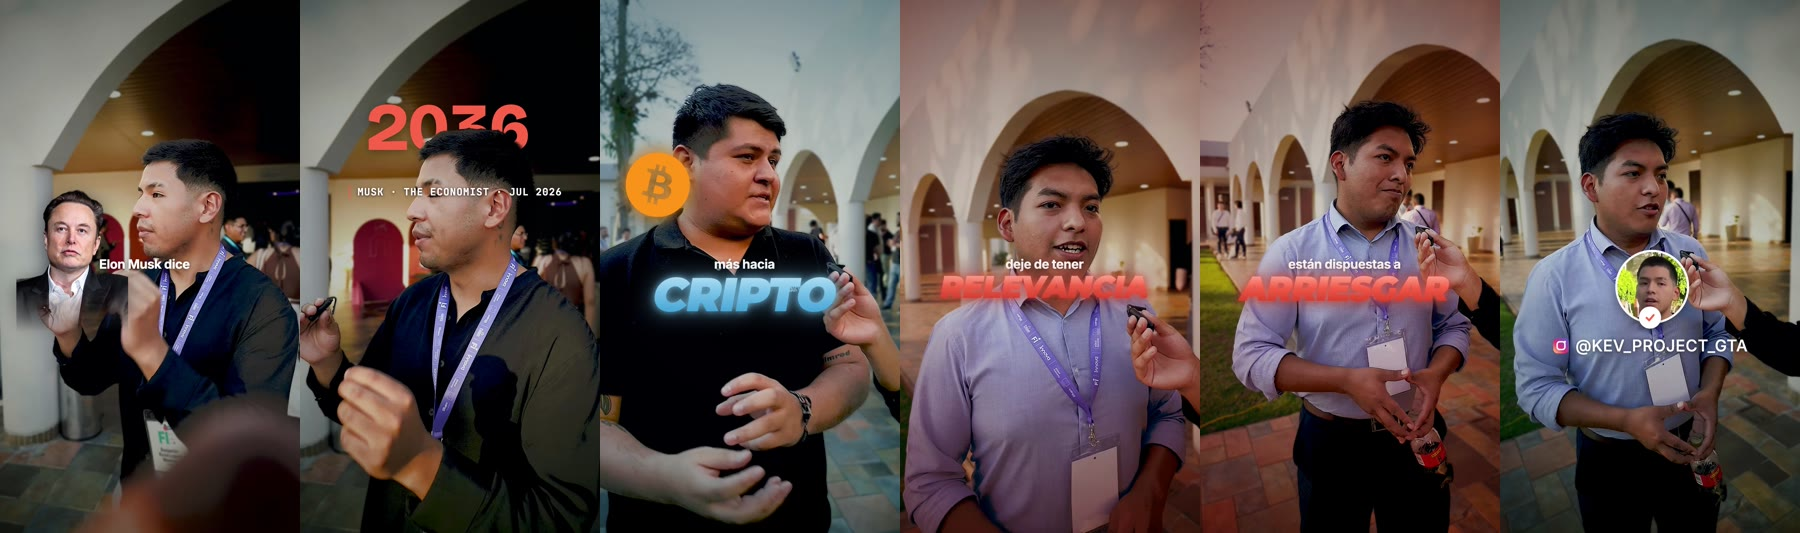
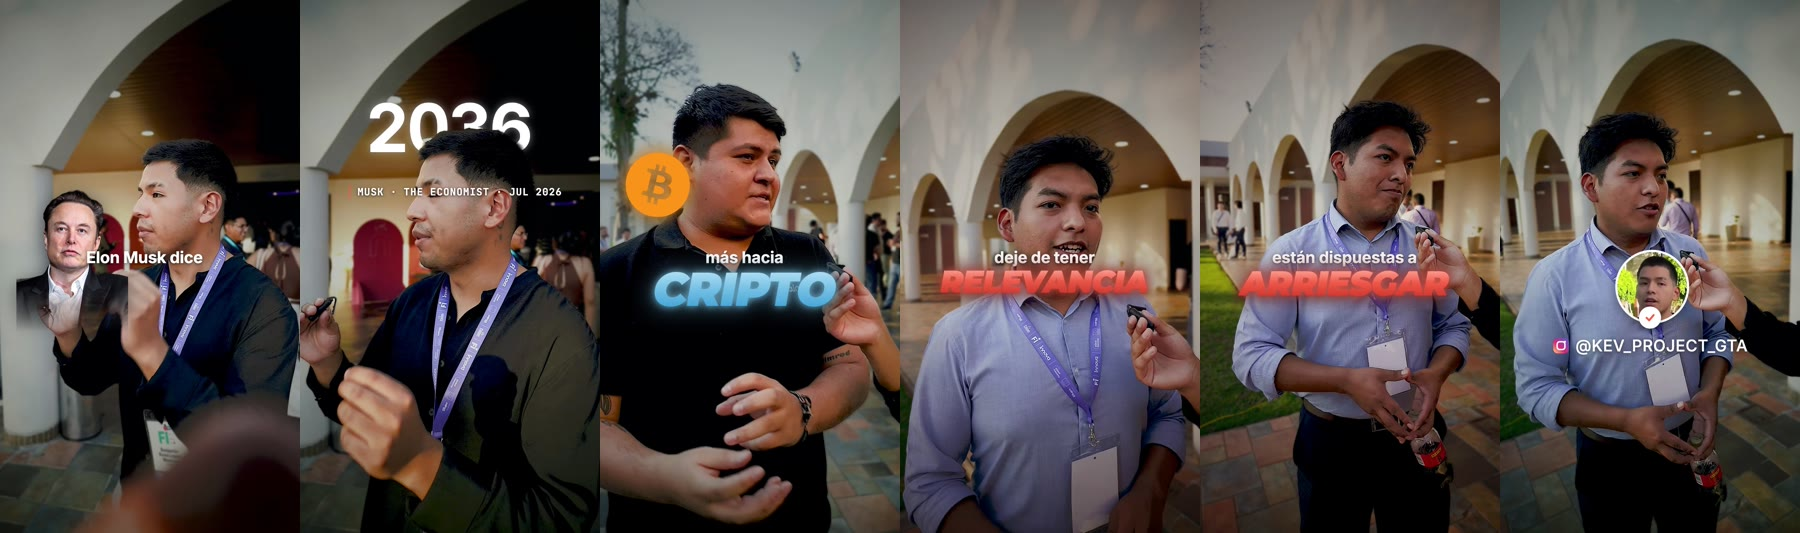
Fábrica: Edición especial con IA nº8 (estilo @janbasx) y cuadros de la nº6 v2

diff --git a/lib/fabrica-reels.ts b/lib/fabrica-reels.ts
@@ -1222,6 +1222,57 @@ export const FABRICA_BASE: ContenidoFabrica = {
       ],
     },
     {
+      id: "edicion-ia-8",
+      tipo: "referentes",
+      etiqueta: "Edición especial con IA nº8",
+      titulo: "Serif blanca + clave roja, flechas punteadas y contador, estilo @janbasx",
+      refs: [
+        {
+          nombre: "Cómo se edita, paso a paso",
+          grupo: "Cómo se hace",
+          url: "https://www.kevproject.world/fabrica",
+          datos: "El mismo roadmap de 13 pasos · paso 7: Edición especial con IA nº8",
+          imagenes: ["/fabrica/ia/ia8-roadmap-v1.png"],
+          ancho: true,
+          puntos: [
+            "Los 13 pasos son los mismos; cambia el paso 7 (el estilo).",
+            "Todas las reglas siguen: un solo texto a la vez, nada bajo los botones de las apps, margen, contraste automático, música medida y bucle.",
+          ],
+          paraKev: "Definida por Kev el 2026-11-06 a partir de @janbasx.",
+        },
+        {
+          nombre: "Qué tomamos de @janbasx",
+          grupo: "Cómo se hace",
+          url: "https://www.instagram.com/reel/DXcSct-Ebhj/",
+          datos: "Reel de 125 s estudiado cuadro a cuadro (cada 0,2 s) · su rojo coincide con el rojo del $10",
+          imagenes: ["/fabrica/ia/ia8-cuadros-v1.jpg"],
+          ancho: true,
+          puntos: [
+            "Dos registros: la frase en serif blanca y debajo la palabra clave en mayúscula gruesa cursiva roja con sombra.",
+            "Anotaciones a mano: palabra en serif cursiva con una flecha punteada curva hacia lo que se nombra.",
+            "Contador arriba en un marco («INTENTO 3»): palabra blanca + número enorme en serif cursiva roja con brillo.",
+            "Subtítulos rojos chicos palabra por palabra a la altura del pecho; blanco y negro en el momento de recapitular.",
+            "Cierre en negro con textura y línea punteada curva: frase blanca + palabra roja.",
+          ],
+          paraKev: "Herramienta: escena-guion.html?estilo=janbas; efectos «dosreg», «flecha», «intento» y «byn». Sus escenas de mapa, cuchillo y papeles volando necesitan material propio de Kev.",
+        },
+        {
+          nombre: "Prueba: video del dinero 2036",
+          grupo: "Cómo se ve",
+          url: "https://www.kevproject.world/fabrica",
+          datos: "Primera versión (v1)",
+          imagenes: ["/fabrica/ia/ia8-cuadros-v1.jpg"],
+          ancho: true,
+          puntos: [
+            "«Elon Musk» con flecha punteada a su foto, «el dinero va a / DEJAR DE EXISTIR», contador «HASTA EL 2036».",
+            "Cada idea con su palabra roja (DEFINICIÓN, PAPEL, DIGITALES, CRIPTO, RELEVANCIA, ARRIESGAR); blanco y negro en «vamos a salir de la moneda papel».",
+            "Revisión en las apps: nada tapado, margen y contraste bien, música 14 dB bajo la voz en el parlante del celular.",
+          ],
+          paraKev: "Archivo en el Drive «Pruebas edicion 100% Ai»: 1-dinero-2036-especial8-v1.mp4.",
+        },
+      ],
+    },
+    {
       id: "guion",
       tipo: "referentes",
       etiqueta: "Creadores (no son referentes)",
